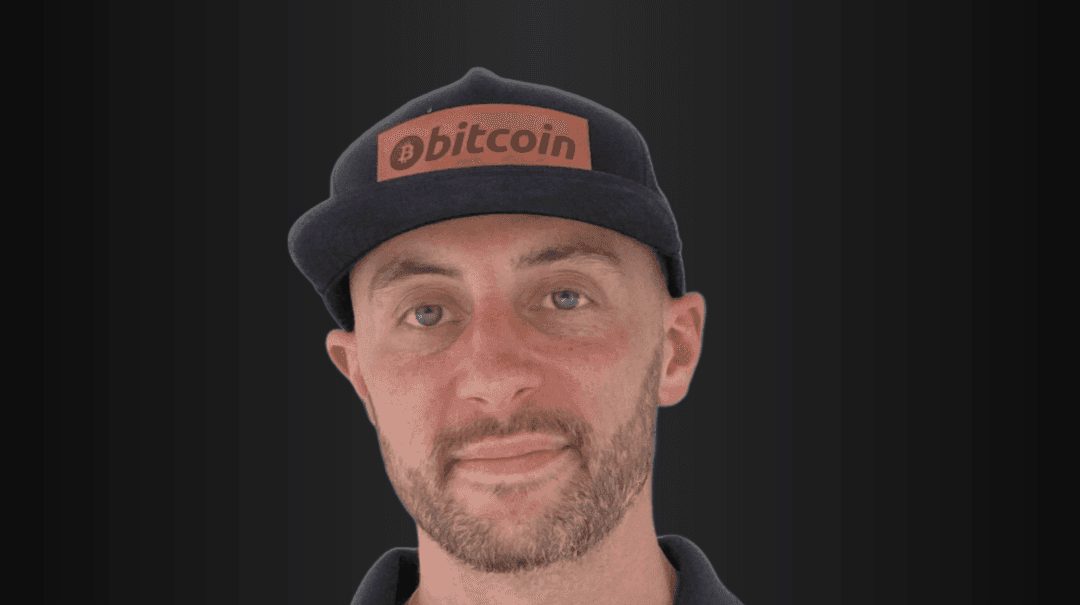
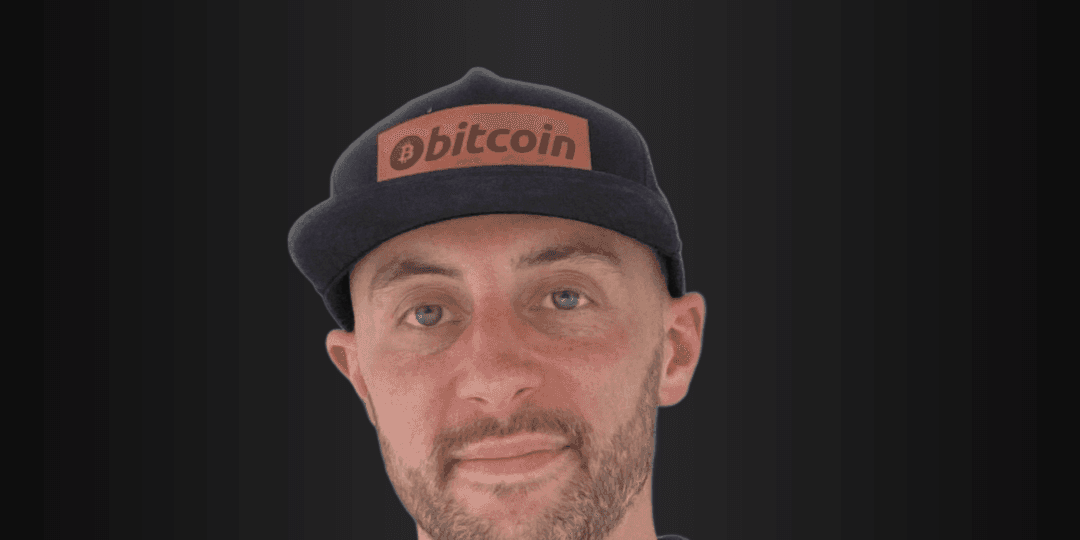
Shorten mobile crop to remove the black void below the chin

Changed region(s): [[0.2444, 0.3259, 0.7028, 1.0], [0.3056, 0.0889, 0.6111, 0.3556], [0.3056, 0.9778, 0.3361, 1.0]]

diff --git a/index.html b/index.html
@@ -5,7 +5,7 @@
   <meta name="viewport" content="width=device-width, initial-scale=1.0" />
   <title>Christian Tiberia</title>
   <link rel="icon" type="image/png" href="images/CT Monogram.png" />
-  <link rel="stylesheet" href="style.css?v=16" />
+  <link rel="stylesheet" href="style.css?v=17" />
   <link rel="preconnect" href="https://fonts.googleapis.com" />
   <link rel="preconnect" href="https://fonts.gstatic.com" crossorigin />
   <link href="https://fonts.googleapis.com/css2?family=Archivo+Black&display=swap" rel="stylesheet" />
@@ -71,12 +71,12 @@
       .hero-photo {
         position: relative;
         width: 100%;
-        aspect-ratio: 1080 / 605;
+        aspect-ratio: 1080 / 540;
         height: auto;
         background-image: url("images/Christian Mobile Hero.png");
         background-position: center center;
-        -webkit-mask-image: linear-gradient(180deg, black 96%, transparent 100%);
-        mask-image: linear-gradient(180deg, black 96%, transparent 100%);
+        -webkit-mask-image: linear-gradient(180deg, black 98%, transparent 100%);
+        mask-image: linear-gradient(180deg, black 98%, transparent 100%);
       }
       .hero-main {
         width: 100%;

diff --git a/contact.html b/contact.html
@@ -5,7 +5,7 @@
   <meta name="viewport" content="width=device-width, initial-scale=1.0" />
   <title>Contact &mdash; Christian Tiberia</title>
   <link rel="icon" type="image/png" href="images/CT Monogram.png" />
-  <link rel="stylesheet" href="style.css?v=16" />
+  <link rel="stylesheet" href="style.css?v=17" />
   <link rel="preconnect" href="https://fonts.googleapis.com" />
   <link rel="preconnect" href="https://fonts.gstatic.com" crossorigin />
   <link href="https://fonts.googleapis.com/css2?family=Archivo+Black&display=swap" rel="stylesheet" />

diff --git a/about.html b/about.html
@@ -5,7 +5,7 @@
   <meta name="viewport" content="width=device-width, initial-scale=1.0" />
   <title>About &mdash; Christian Tiberia</title>
   <link rel="icon" type="image/png" href="images/CT Monogram.png" />
-  <link rel="stylesheet" href="style.css?v=16" />
+  <link rel="stylesheet" href="style.css?v=17" />
   <link rel="preconnect" href="https://fonts.googleapis.com" />
   <link rel="preconnect" href="https://fonts.gstatic.com" crossorigin />
   <link href="https://fonts.googleapis.com/css2?family=Archivo+Black&display=swap" rel="stylesheet" />
